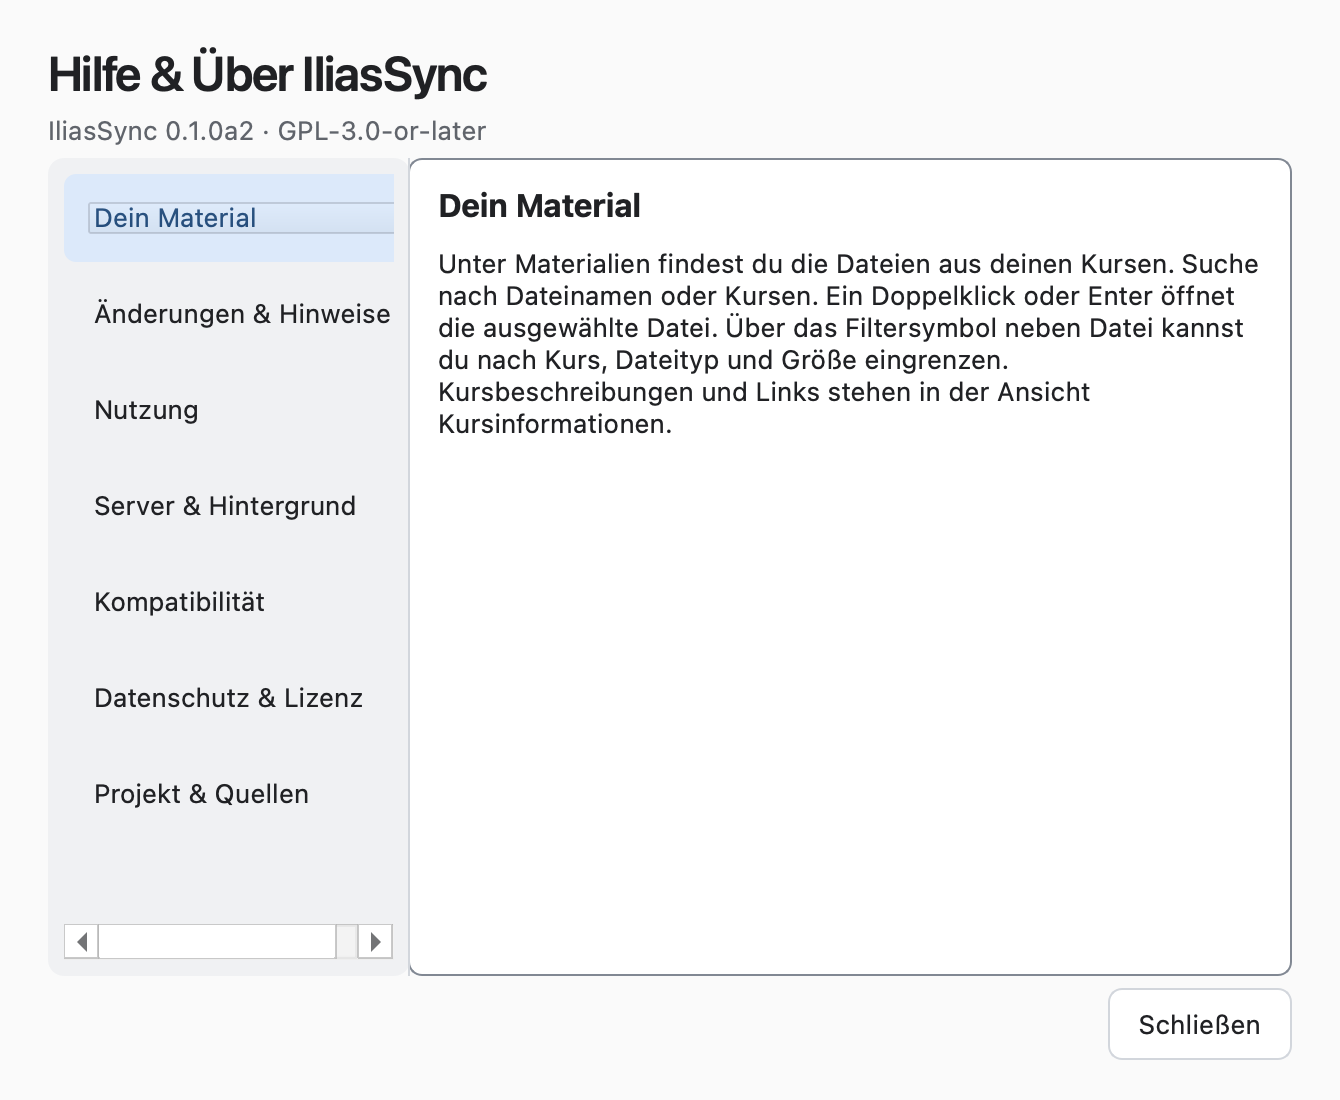
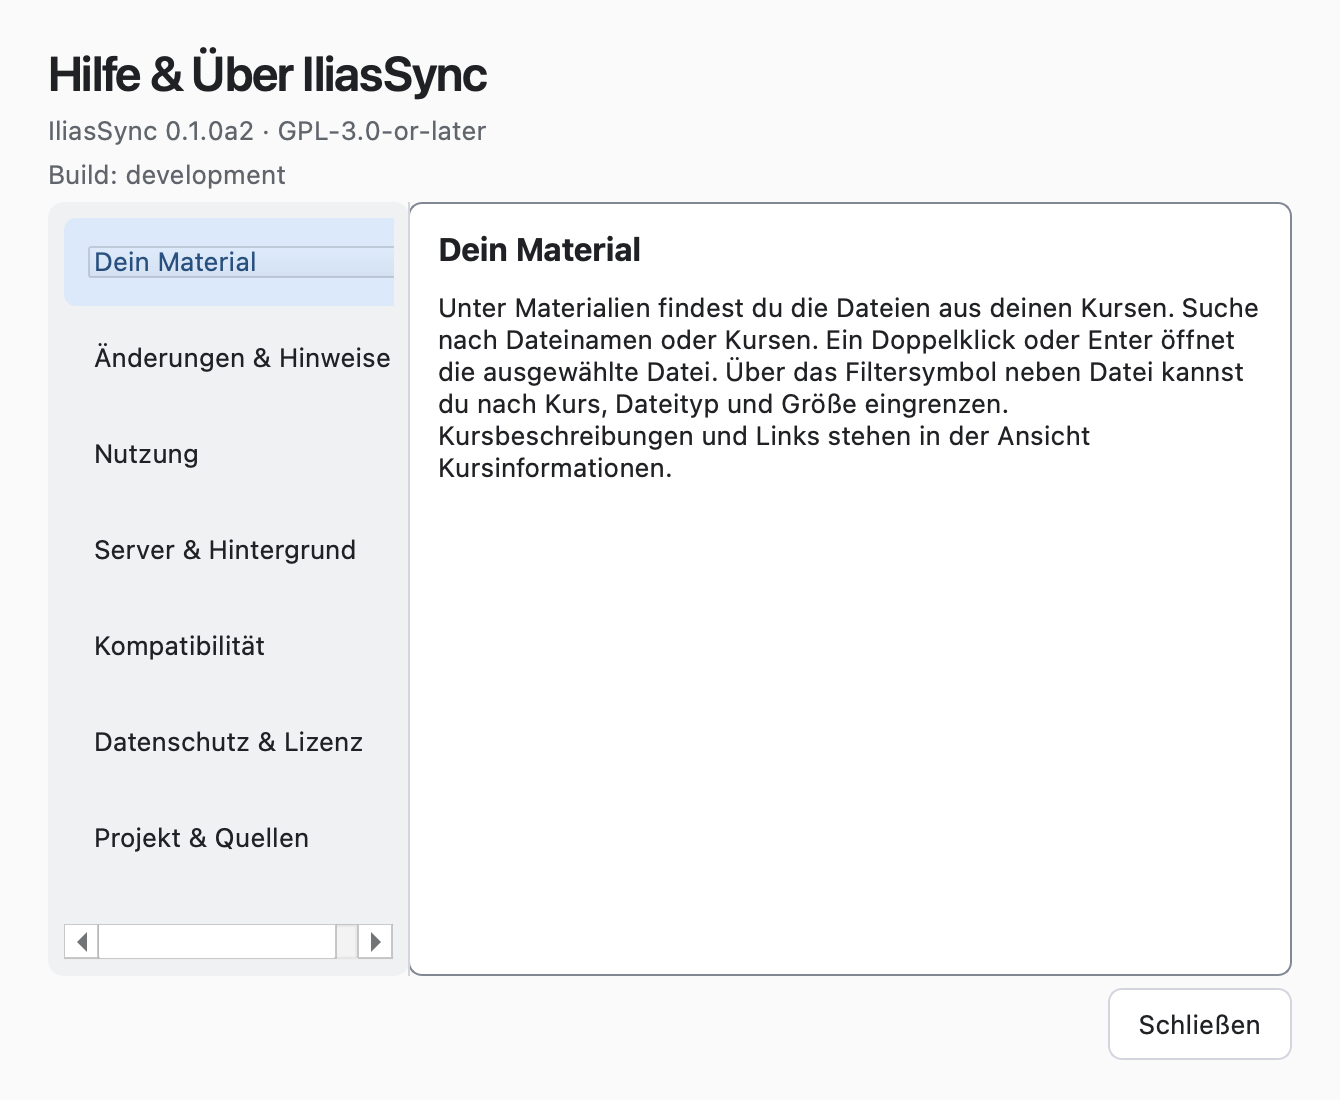
Document issue acceptance, current preview identity and measured request limits

Changed region(s): [[0.0306, 0.1545, 0.9485, 0.4327], [0.0612, 0.3709, 0.2754, 0.68], [0.0612, 0.7109, 0.2448, 0.7727]]

diff --git a/README.md b/README.md
@@ -10,7 +10,7 @@
   <img src="docs/images/app-light.png" alt="IliasSync zeigt lokal gespeicherte Skripte und Übungsblätter sowie die Auswahl von Kursen und Ordnern.">
 </picture>
 
-<p align="center"><sub>Echte App-Oberfläche mit erfundenen Kursen und Dateien.</sub></p>
+<p align="center"><sub>Synthetische Ansicht des lokalen Entwicklungsstands vom 28.10.2026; kein Screenshot des veröffentlichten Alpha-2-Pakets.</sub></p>
 
 <p align="center">
   <a href="https://github.com/schroedernils/ilias-sync/releases/tag/v0.1.0-alpha.2">Downloads</a> ·
@@ -31,6 +31,10 @@
 
 Die Oberfläche startet auf Deutsch. Unter **Einstellungen → Allgemein** kannst du zu Englisch wechseln und Hell, Dunkel oder **Wie System** wählen.
 
+## Entwicklungsstand und veröffentlichtes Paket
+
+Die hier beschriebenen neuen Ordner-, Filter-, Tageszeitplan- und Berichtsabläufe gehören zum lokalen Entwicklungsstand. Der Downloadlink führt weiterhin zum veröffentlichten Alpha 2 vom 22.10.2026. Diese Arbeit wurde nicht gepusht oder als Release veröffentlicht. Neue lokale Pakete zeigen unter **Hilfe & Über IliasSync** eine Build-Kennung aus Git-Revision und Quellfingerprint; dieselbe Kennung steht im Offline-Selbsttest und bei neu aufgezeichneten Versuchen. Die Versionsnummer `0.1.0a2` allein unterscheidet diese Pakete nicht. [Prüfnachweise](docs/VERIFICATION.md).
+
 ## Herunterladen
 
 Alle Pakete stehen im [aktuellen Alpha-Release](https://github.com/schroedernils/ilias-sync/releases/tag/v0.1.0-alpha.2). Prüfe die Datei gegen `SHA256SUMS` im selben Release. Python und Qt sind enthalten; Java wird nicht benötigt.
@@ -47,9 +51,9 @@ Alle Pakete stehen im [aktuellen Alpha-Release](https://github.com/schroedernils
 
 1. **ILIAS hinzufügen:** Die HTTPS-Startadresse deiner Hochschule eintragen und prüfen.
 2. **Anmelden:** Hochschulzugang, unterstütztes SSO oder eine eigene Browsersitzung verwenden. Einen festen Zielordner auswählen.
-3. **Kurse wählen und synchronisieren:** Alle beigetretenen Kurse oder eine Auswahl. Bei Bedarf den Zeitplan unter **Einstellungen → Allgemein** aktivieren.
+3. **Kurse wählen und synchronisieren:** Alle beigetretenen Kurse oder eine Auswahl. Bei Bedarf den Zeitplan unter **Einstellungen → Zeitplan** aktivieren.
 
-Du kannst mehrere ILIAS-Quellen hinzufügen. Fahre links über eine Quelle, um den Stift zum **Bearbeiten** einzublenden, oder nutze Rechtsklick → **Bearbeiten**. Mit der Tastatur geht auch F2. Am Zielpfad stehen **Ordner zuordnen** und **Ordner öffnen** als Symbole mit Tooltips. Das Zahnrad öffnet die Einstellungen.
+Du kannst mehrere ILIAS-Quellen hinzufügen. Fahre links über eine Quelle, um den Stift zum **Bearbeiten** einzublenden, oder nutze Rechtsklick → **Bearbeiten**. Mit der Tastatur geht auch F2. Rechts neben **Kurse auswählen** stehen **Ordner zuordnen** und **Ordner öffnen** als Symbole mit Tooltips. **Einstellungen** öffnet Sprache, Erscheinungsbild und Zeitplan.
 
 Bei MFA oder einer eigenen Anmeldeseite kann ein Netscape-`cookies.txt`-Export nötig sein. Die App importiert nur Cookies für den eingestellten ILIAS-Host und liest dein Browserprofil nicht selbst. Eine Sitzung kann ablaufen; dann ist ein neuer Import nötig. Behandle solche Exporte wie ein Passwort. [Mehr zur Anmeldung](docs/INSTALLATION.md#anmeldung).
 
@@ -67,7 +71,7 @@ Ein Cloud-Zielordner ist möglich. **Den Upload übernimmt dein Cloud-Client; Il
 
 **Kompatibilität:** ILIAS-Versionen, Hochschuldesigns, Plugins und SSO/MFA unterscheiden sich. Eine eigene Adresse ist konfigurierbar, aber nicht jede Installation funktioniert ohne Anpassung. Foren, Tests, Umfragen, SCORM und manche externen Inhalte sind kein vollständiges Offline-Abbild. Übersprungene und nicht verfügbare Inhalte werden im Ergebnis ausgewiesen.
 
-**Schnelle Folgeläufe:** Ein lokaler Inhaltsindex vermeidet wiederholtes HTML-Parsing. Bekannte Inhaltsseiten werden bei jedem Lauf frisch geprüft, mit maximal 64 parallelen Seitenabrufen; acht PFERD-Arbeitsslots bearbeiten neue Inhalte und Downloads. Bereits leer bestätigte Termine werden bei unterstützten Kursübersichten über die aktuellen Materialzähler geprüft. Es gibt keine künstliche Pause nach Aufgaben. Automatische Läufe sind frühestens stündlich möglich. Die Vorgaben deiner Hochschule gehen vor. [Messung und Grenzen](docs/SYNC_PERFORMANCE.md).
+**Schnelle Folgeläufe:** Ein lokaler Inhaltsindex vermeidet wiederholtes HTML-Parsing. Bekannte Inhaltsseiten werden bei jedem Lauf frisch geprüft, mit bis zu 64 vorbereiteten Seitenprüfungen. Eine gemeinsame HTTP-Grenze erlaubt insgesamt höchstens acht Anfragen pro Host, einschließlich Downloads, Anmeldung und Weiterleitungen; acht PFERD-Arbeitsslots bearbeiten neue Inhalte. Bereits leer bestätigte Termine werden bei unterstützten Kursübersichten über die aktuellen Materialzähler geprüft. Es gibt keine künstliche Pause nach Aufgaben. Automatische Läufe sind frühestens stündlich möglich. Die Vorgaben deiner Hochschule gehen vor. [Messung und Grenzen](docs/SYNC_PERFORMANCE.md).
 
 **Nutzungsrechte:** IliasSync ist unabhängig und kein offizielles Angebot einer Hochschule oder des ILIAS-Projekts. Nutze nur berechtigte Zugänge und beachte Hochschulregeln sowie Rechte an Kursmaterialien, besonders bei Cloud-Ablage und Weitergabe. Die Softwarelizenz erteilt keine Rechte an heruntergeladenen Inhalten.
 

diff --git a/docs/SYNC_PERFORMANCE.md b/docs/SYNC_PERFORMANCE.md
@@ -34,3 +34,47 @@ Läufe derselben vorherigen und überarbeiteten Version. Der Median sank von 7,0
 verzahnt Kurssuche, Seitenabrufe und Verarbeitung; 64 statt 32 gleichzeitige Seitenprüfungen
 waren schneller, 96 dagegen wieder langsamer. Eine weitere dreifache Beschleunigung wurde
 damit nicht nachgewiesen.
+
+## HTTP-Grenzen ab dem lokalen Entwicklungsstand vom 28. Oktober
+
+Die obigen Universitätsmessungen gehören zum damaligen Stand und sind **keine Messung mit der neuen HTTP-Grenze**.
+Die 64 vorbereiteten Seitenprüfungen bleiben eine Aufgabenwarteschlange. Tatsächlich gleichzeitig laufende HTTP-Anfragen
+sind jetzt über Seiten, Downloads, Anmeldung und Weiterleitungen zusammen auf **acht pro Host** begrenzt. Ein Slot bleibt
+bis zum Ende der Antwort oder einem expliziten Schließen belegt; wartende Anfragen lassen sich abbrechen. Die Zählung
+erfolgt beim Senden der HTTP-Header, getrennt von Versuchen, und erfasst Statuscodes, Spitzenparallelität und Wartezeit.
+Sie enthält Hostnamen, keine Zugangsdaten, Querystrings oder Antwortinhalte. Der technische Sync-Bericht zeigt die Werte.
+
+Acht ist eine vorläufige lokale Obergrenze, keine universell verträgliche Vorgabe einer Hochschule. Sie begrenzt den
+bisher unabhängigen 64er-Prefetch auf die schon vorhandene Größenordnung der Arbeitsslots. Für strengere Vorgaben kann
+`ILIAS_SYNC_HTTP_LIMIT=1` bis `8` den Grenzwert senken; höhere Werte werden abgelehnt. Geplante Quellen laufen innerhalb
+eines Workers nacheinander; der Prozesslock verhindert überlappende Jobs desselben App-Datenordners. Es gibt keine
+Aussage über eine sichere Rate vieler verschiedener Installationen.
+
+Bei HTTP 429/503 gilt ein gemeinsamer Host-Aufschub aus `Retry-After` (Sekunden oder HTTP-Datum), sonst ein begrenzter
+exponentieller Abstand. GET/HEAD werden höchstens dreimal versucht; POST wird nicht automatisch erneut gesendet.
+Drei aufeinanderfolgende Drosselantworten öffnen den Schutzschalter für den Lauf. Lange Aufschübe werden ohne schlafenden
+Dauerprozess gespeichert und von neuen Läufen respektiert. Ein manueller Lauf umgeht den Serveraufschub ebenfalls nicht.
+Bereits laufende Anfragen können noch enden, bevor andere von der Drosselung erfahren.
+
+Die Regression nutzt ausschließlich einen lokalen HTTPS-Server mit synthetischem Kursbaum: 2 Kurse, 16 Unterordner/Dateien,
+erster Download und unveränderter Folgelauf mit Grenzwert 1 beziehungsweise 8. Identitäten, Dateihashes, Prüfumfang und
+Fehler müssen gleich sein. Separate lokale Fixtures prüfen Weiterleitungen, gestreamte Antworten, gemeinsame Budgets über
+Sessions, 401 und Anmeldung, 429/503, persistentes `Retry-After`, Wiederholungsstürme und Abbruch. Akkuverschiebung und
+sequenzielle Quellen sind Worker-Tests; Oberfläche/Start und inaktiver Fortschrittstimer werden getrennt geprüft.
+
+**Metadatengrenze:** PFERDs `always-smart` darf eine vorhandene Datei bei gleichen Zeit-/Größenmetadaten ohne erneuten
+Body-Download behalten. Ein frischer Seitenabruf prüft deshalb nicht jedes Remote-Byte. Eine explizite Fixture ersetzt den
+Serverinhalt bei gleicher mtime und bestätigt diese Grenze; sie behauptet keine verpasste Änderung an einer echten Hochschule.
+Es wurden keine Energie- oder Akkulaufzeitmessungen durchgeführt und keine Energieersparnisse aus Laufzeiten berechnet.
+
+Die am 28.10.2026 ausgeführte lokale Fixture ergab (ein Lauf pro Variante, kein Universitätsbenchmark):
+
+| HTTP-Grenze | Erster Lauf | Unveränderter Lauf | Anfragen erster / Folge | Gemessene Spitze |
+| --- | ---: | ---: | ---: | ---: |
+| 1 | 0,32 s | 0,16 s | 35 / 19 | 1 |
+| 8 | 0,10 s | 0,04 s | 35 / 19 | 8 |
+
+Beide Varianten veröffentlichten dieselben 16 Objekte mit denselben SHA-256-Werten; der Folgelauf meldete jeweils
+16 unveränderte Dateien und keine Prüffehler. Vollständige synthetische Ergebnisse: [JSON](benchmarks/http-fixture-20261028.json).
+Diese Werte hängen von den künstlichen Verzögerungen des lokalen Servers ab. Eine neue Realserver-Laufzeit mit der
+Achtergrenze ist nicht gemessen; die früheren 3,53 Sekunden sind deshalb ausdrücklich keine aktuelle Zusage.

diff --git a/docs/ARCHITECTURE.md b/docs/ARCHITECTURE.md
@@ -11,7 +11,7 @@ An installation profile has an opaque UUID, HTTPS root, login mode, username, cl
 PFERD is a pinned dependency. The adapter supports dynamic local login form field names, explicitly guarded Shibboleth POST hosts, imported browser sessions, dashboard membership discovery, selected course/folder URLs, safe single-object cache keys, PDF/ZIP signature checks and status-aware HTTP errors. Navigation controls for showing/hiding sessions are removed before parsing to avoid the previously observed duplicate-folder loop. Courses linked from a course are not followed as new memberships; joined groups come from the dashboard.
 
 Incremental parsing: a private, source-bound page index retains parsed navigation plans rather than cached freshness.
-Each run fetches known content pages again, with at most 64 concurrent reads, overlapping membership discovery and traversal.
+Each run fetches known content pages again, with at most 64 queued page tasks, overlapping membership discovery and traversal. A shared per-host HTTP budget allows eight active requests across pages, streams, authentication and redirects; responses retain their slot until EOF or close.
 Authenticated responses are compared using
 content, navigation, download-target and description fingerprints; random UI IDs, hidden form tokens and assignment
 countdowns do not invalidate parsing. Changed pages are parsed again with lxml, newly discovered pages are fetched,
@@ -61,3 +61,8 @@ View state (selected source, source-specific material view and window size) has 
 Read-only tables release Tab for focus navigation. Datetime labels share a bounded minute-precision timezone cache;
 there is no timer or background collection scan while idle. Filters share the single main search and reload choices
 when the manifest changes. Their visible result count uses the same eligibility predicate as the table.
+
+HTTP policy: aiohttp 3.14.5 middleware bounds active responses per hostname, while trace hooks count actually sent headers.
+Persisted host cooldowns survive one-shot workers. GET/HEAD retries obey Retry-After; POST is never automatically replayed.
+Three consecutive throttles open a per-run circuit. Host metrics and attempted/planned roots are retained in attempt evidence
+even when enumeration fails before files exist. See [measurement and override policy](SYNC_PERFORMANCE.md).

diff --git a/docs/VERIFICATION.md b/docs/VERIFICATION.md
@@ -52,3 +52,23 @@ not notarization. Windows/Linux native installation and spoken screen-reader beh
 The existing account configuration and 66 published files were snapshotted locally before installing. After the package
 replacement, all 66 files matched their recorded SHA-256 hashes and settings were byte-identical. Native scheduling was generated/tested with fixtures; no example daily
 schedule was activated on the real account.
+
+## GitHub quality issues — 28 October 2026
+
+The source passed **174 tests** after the issue work; Ruff and whitespace checks passed. The 53-state renderer was rerun.
+Issue #1 now has direct regressions for material-policy scope changes versus cosmetic changes, unknown legacy scope,
+scoped last-success claims, changed-scope failure/cancellation and restart, and a failed subtree before any file is
+listed. Attempted roots, planned roots and incomplete membership enumeration are separately recorded. Failed attempts
+keep this evidence without fabricating publication results. Read-only discovery still preserves previous sync outcomes.
+Build metadata binds locally packaged previews to a Git revision and source fingerprint; release Alpha 2 is explicitly
+separate in the README. No source was pushed and no release was created.
+
+Issue #3 has loopback-only HTTP/HTTPS integration tests for streamed-body leases, redirects, shared sessions, login,
+401, 429/503, Retry-After dates and persistence, retry storms, queued cancellation and full-crawler comparison at limits
+1/8. The fixture measured equal request counts, scope, file identities and hashes; see [the measurement record](SYNC_PERFORMANCE.md).
+Battery deferral does no crawl, configured sources run sequentially, and existing tests check idle timers/no resident loop.
+No power measurement or institutional compatibility claim follows from these tests. An explicit equal-mtime fixture
+records the limitation that metadata-based file reuse can retain old bytes when the server changes bytes alone.
+
+The owner deferred tests with other people. Issue #2's student discovery and unseen-change/offline-readiness validation
+remain open; no recruitment, diary, participant metrics or offline-residency assurance was performed or invented.

diff --git a/docs/USAGE.md b/docs/USAGE.md
@@ -25,13 +25,13 @@ Der Adapter verwendet **acht PFERD-Arbeitsslots** ohne zusätzliche Wartezeit
 zwischen Aufgaben (`tasks=8`, `task_delay=0`). Inhalte innerhalb eines Kurses
 werden parallel geprüft; Kurse werden weiterhin nacheinander verarbeitet.
 Ein lokaler Inhaltsindex prüft bekannte Seiten bei jedem Lauf frisch mit bis zu
-64 parallelen Seitenabrufen. Kurssuche und Verarbeitung laufen dabei überlappend.
+64 vorbereiteten Seitenaufgaben; insgesamt sind höchstens acht HTTP-Anfragen pro Host gleichzeitig aktiv. Diese Grenze gilt auch für Downloads, Anmeldung und Weiterleitungen. Kurssuche und Verarbeitung laufen dabei überlappend.
 Unveränderte Parserergebnisse werden wiederverwendet,
 doppelte Abrufe zusammengefasst und bestätigte Objektrouten direkt aufgerufen.
 Bei unterstützten Kursübersichten reichen die aktuellen Materialzähler aus,
 um bereits leer bestätigte Termine auf neue Materialien zu prüfen. Unbekannte
 Termine und unbekannte Darstellungen werden regulär geprüft.
-Die Kurssuche, Dateiprüfung und sichere lokale Veröffentlichung bleiben erhalten.
+Die Kurssuche, Dateiprüfung und sichere lokale Veröffentlichung bleiben erhalten. Serverseitige Wartezeiten bei 429/503 werden berücksichtigt, auch über App-Neustarts hinweg.
 Erste Läufe und neue Ordner benötigen mehr Arbeit als unveränderte Folgeläufe;
 Downloads hängen zusätzlich von Größe und Verbindung ab. [Messung](SYNC_PERFORMANCE.md).
 

diff --git a/CHANGELOG.md b/CHANGELOG.md
@@ -2,6 +2,8 @@
 
 ## Unreleased
 
+Bind preview packages and attempt history to a source build identity. Preserve attempted/planned course roots and failed-subtree evidence even before files are listed. Add a shared per-host HTTP budget across pages, streamed downloads, authentication and redirects, persisted Retry-After and bounded safe-method retries; keep POSTs non-replayed. Record actual sent-request counts and verify lower-concurrency coverage with a local HTTPS server.
+
 Distinguish settings-file access/write failures from native scheduler failures and retain unsaved input for retry.
 
 Make editing distinct from first-time setup; preserve manual course targets. Explain effective inherited folder paths,
